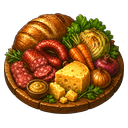
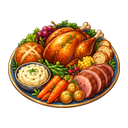
Add tavern feast plate craft progression

diff --git a/src/config/source/feastPlateSource.test.ts b/src/config/source/feastPlateSource.test.ts
@@ -1,0 +1,72 @@
+import { readFileSync } from "node:fs";
+import { describe, expect, it } from "vitest";
+
+const readJson = (path: string) => JSON.parse(readFileSync(path, "utf8"));
+
+describe("feast plate source config", () => {
+	it("removes direct feast production from Town Hall II", () => {
+		const townHall = readJson("game/arkini/era-II/producers/townhall-t2.json");
+		const lines = townHall.items["producer:townhall-t2"].producer.lines;
+
+		expect(lines.some((line: { id: string }) => line.id === "line:townhall-t2:feast")).toBe(
+			false,
+		);
+	});
+
+	it("lets Tavern I serve feast plates", () => {
+		const tavern = readJson("game/arkini/era-III/producers/tavern-t1.json");
+		const feastPlateLine = tavern.items["producer:tavern-t1"].producer.lines.find(
+			(line: { id: string }) => line.id === "line:tavern-t1:feast-plate",
+		);
+
+		expect(feastPlateLine).toMatchObject({
+			durationMs: 8000,
+			name: "Feast Plate",
+			output: [
+				{
+					itemId: "item:feast-plate",
+					type: "guaranteed",
+				},
+			],
+		});
+	});
+
+	it("defines Feast Plate as a staged craft that finishes into Feast", () => {
+		const feastPlate = readJson("game/arkini/era-III/items/feast-plate.json").items[
+			"item:feast-plate"
+		];
+
+		expect(feastPlate.assetIds).toEqual([
+			"asset:item:feast-plate",
+			"asset:item:feast-plate-stage-1",
+			"asset:item:feast-plate-stage-2",
+			"asset:item:feast",
+		]);
+		expect(feastPlate.craft).toMatchObject({
+			durationMs: 9000,
+			resultItemId: "item:feast",
+			inputs: [
+				{
+					consume: true,
+					itemId: "item:bread",
+				},
+				{
+					consume: true,
+					itemId: "item:sausage",
+				},
+				{
+					consume: true,
+					itemId: "item:cheese",
+				},
+				{
+					consume: true,
+					itemId: "item:vegetables",
+				},
+				{
+					consume: true,
+					itemId: "item:egg",
+				},
+			],
+		});
+	});
+});

diff --git a/game/arkini/README.md b/game/arkini/README.md
@@ -272,7 +272,7 @@ Era X prestige construction materials
 
 ### Initial balance placeholder
 
-Most first-pass production durations stay in the `5000` to `9000` ms range. Windmill flour takes `6000` ms, bakery bread and slaughterhouse sausage/raw-hide and tannery leather take `8000` ms, dairy cheese takes `7000` ms, cookhouse feast takes `9000` ms, and market trades are intentionally short conversions. Town Hall upgrade planning is intentionally heavier: Town Hall II/III/IV blueprints take `60000`/`90000`/`120000` ms and are Minor Haste targets, so era jumps feel like real milestones instead of another disposable click-snack. Timing balance is still placeholder territory; the point is getting the production language and data shape right before humans inevitably demand seventeen exceptions.
+Most first-pass production durations stay in the `5000` to `9000` ms range. Windmill flour takes `6000` ms, bakery bread and slaughterhouse sausage/raw-hide and tannery leather take `8000` ms, dairy cheese takes `7000` ms, tavern feast plates take `8000` ms, feast assembly craft takes `9000` ms, and market trades are intentionally short conversions. Town Hall upgrade planning is intentionally heavier: Town Hall II/III/IV blueprints take `60000`/`90000`/`120000` ms and are Minor Haste targets, so era jumps feel like real milestones instead of another disposable click-snack. Timing balance is still placeholder territory; the point is getting the production language and data shape right before humans inevitably demand seventeen exceptions.
 
 Pollution is authored as ordinary board content and affected product outputs decide how they react to it through output-owned `nearby.duration.multiply` rules. Pollution no longer carries a local mutator that reaches into other definitions; farm/animal/vegetable/brewery/winery outputs explicitly define their own exact distance bands, display policy, and stacking limits. Same ecological disaster, fewer invisible demons.
 
@@ -299,7 +299,7 @@ Current processor input buffers use capacity `4`:
 - `input:winery-t1:grapes-water`
 - `input:winery-t1:wine-glass-to-barrel`
 - `input:dairy-t1:milk`
-- `input:cookhouse-t1:feast`
+- `input:tavern-t1:feast-plate`
 - `input:market-t1:coin-from-bread`
 - `input:market-t1:coin-from-sausage`
 - `input:market-t1:coin-from-cheese`